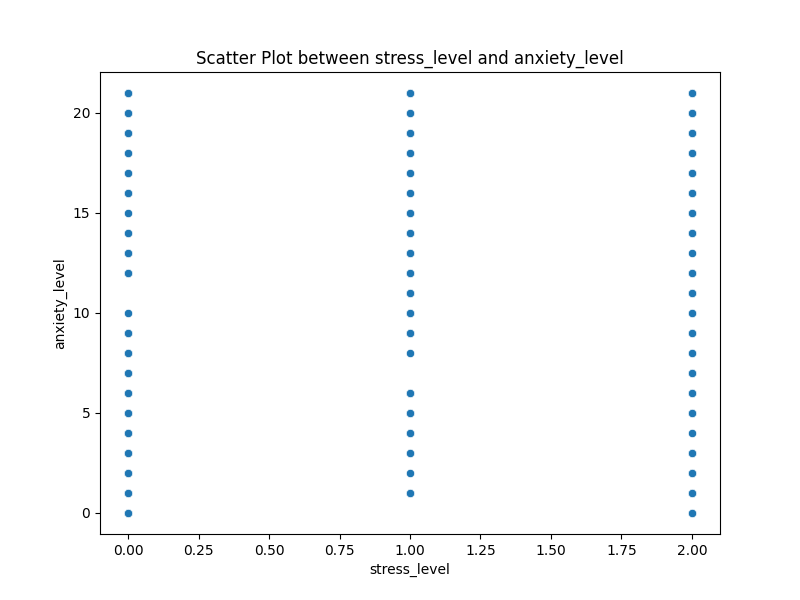
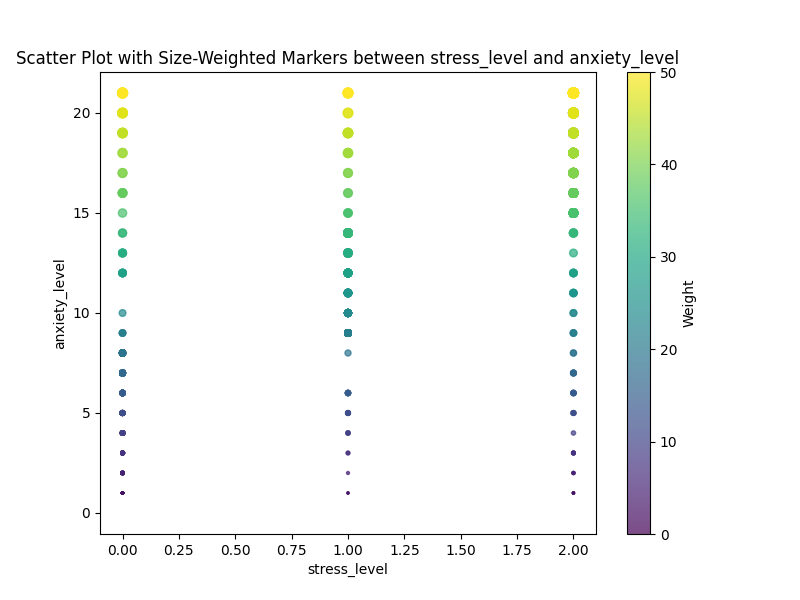
Finished README part 1

diff --git a/scripts/plotting.py b/scripts/plotting.py
@@ -158,12 +158,73 @@ def StressfactorAnalysis(df):
 
 def plot_two_variables(df, variable1, variable2):
     """
-    Function to plot two variables in a scatter plot
+    Function to plot two variables in a scatter plot, making the weight of each point more visible
     """
+    print("\n\nGraph in output folder\n\n")
     plt.figure(figsize=(8, 6))
-    sns.scatterplot(x=variable1, y=variable2, data=df)
-    plt.title(f"Scatter Plot between {variable1} and {variable2}")
+
+    # Create a list of marker sizes based on the values of variable2
+    marker_sizes = [50 * (i / np.max(df[variable2])) for i in df[variable2]]
+
+    # Create a colormap based on the weights
+    cmap = plt.cm.viridis  # You can choose a different colormap
+
+    # Normalize the weights to be in the range [0, 1]
+    norm = plt.Normalize(vmin=min(marker_sizes), vmax=max(marker_sizes))
+
+    # Create the scatter plot with size-weighted markers and varied color intensity
+    sc = plt.scatter(
+        x=df[variable1],
+        y=df[variable2],
+        s=marker_sizes,
+        c=marker_sizes,
+        cmap=cmap,
+        alpha=0.7,
+        norm=norm,
+    )
+
+    # Add a colorbar to the plot
+    cbar = plt.colorbar(sc, orientation="vertical")
+    cbar.set_label("Weight")
+
+    plt.title(f"Scatter Plot with Size-Weighted Markers between {variable1} and {variable2}")
     plt.xlabel(variable1)
     plt.ylabel(variable2)
-    print("\n\nGraph in output folder\n\n")
     plt.savefig(os.path.join("outputs", f"scatter_plot_{variable1}_{variable2}.png"))
+
+
+def plot_two_variables_after_filtering(filtered_df, variable1, variable2):
+    """
+    Function to plot two variables in a scatter plot, making the weight of each point more visible
+    """
+    print("\n\nGraph in output folder\n\n")
+    plt.figure(figsize=(8, 6))
+
+    # Create a list of marker sizes based on the values of variable2
+    marker_sizes = [50 * (i / np.max(filtered_df[variable2])) for i in filtered_df[variable2]]
+
+    # Create a colormap based on the weights
+    cmap = plt.cm.viridis  # You can choose a different colormap
+
+    # Normalize the weights to be in the range [0, 1]
+    norm = plt.Normalize(vmin=min(marker_sizes), vmax=max(marker_sizes))
+
+    # Create the scatter plot with size-weighted markers and varied color intensity
+    sc = plt.scatter(
+        x=filtered_df[variable1],
+        y=filtered_df[variable2],
+        s=marker_sizes,
+        c=marker_sizes,
+        cmap=cmap,
+        alpha=0.7,
+        norm=norm,
+    )
+
+    # Add a colorbar to the plot
+    cbar = plt.colorbar(sc, orientation="vertical")
+    cbar.set_label("Weight")
+
+    plt.title(f"Scatter Plot with Size-Weighted Markers between {variable1} and {variable2}")
+    plt.xlabel(variable1)
+    plt.ylabel(variable2)
+    plt.savefig(os.path.join("outputs", f"filtered_scatter_plot_{variable1}_{variable2}.png"))

diff --git a/scripts/main_script.py b/scripts/main_script.py
@@ -8,6 +8,7 @@ import click
 if __name__ == "__main__":
     from plotting import StressfactorAnalysis
     from plotting import plot_two_variables
+    from plotting import plot_two_variables_after_filtering
     from stats import calculate_correlation_matrix
     from filtering import Filtering
     from regression import perform_regression
@@ -80,7 +81,7 @@ def main(
             filtered_df = df
 
         if plotting and variable1 and variable2:
-            plot_two_variables(filtered_df, variable1, variable2)
+            plot_two_variables_after_filtering(filtered_df, variable1, variable2)
     if plotting:
         if plot_main:
             StressfactorAnalysis(df)

diff --git a/README.md b/README.md
@@ -163,3 +163,20 @@ _Stress level and self esteem._
 _Stress level and future carrer concerns._<br>
 --<br>
 If we now filter that data and then plot it, it becomes more evident.
+
+For exapmple, filtering the anxiety level for smaller than 8 should show major imporvemens on the stress level in the plot:
+
+    python scripts/main_script.py -id dataset/StressLevelDataset.csv -f anxiety_level -small 8 -plot -var1 stress_level -var2 anxiety_level
+This print the graph in the output but more importantly, it shows the filtered csv. From that can be decucted that the stress level is more often close to zero. <br> 
+<br>Further filters and plot can be applied and the correlations further checked.
+
+--<br>
+Lastly, it is possible to conduct a regression with the model to predict future outcomes and check how much variablility can be explained with the target variable. It can be done like this:
+
+    python scripts/main_script.py -id dataset/StressLevelDataset.csv -reg
+...and should give the followin output: <br>
+Mean Squared Error: 0.14076890911661943 <br>
+R-squared: 0.7891624570247755
+
+![alt text](https://github.com/Jan2134/FinalProjectAdvancedPython/blob/testing/outputs/Regression.png?raw=true)
+In this case, an MSE of 0.1407 indicates that, on average, the squared difference between the actual and predicted stress levels is quite low. An R-squared value of 0.7891 suggests that approximately 78.91% of the variability in the stress levels can be explained by the independent variables in your dataset. This is a relatively high value, indicating that the model fits the data well. The outcome might vary slightly every time. The graph (in the outputs) suggests that the model is able to make fairly accurate predictions about stress levels. However, there is still some variation between the actual and predicted stress levels. This could be due to a number of factors, such as the complexity of the relationship between stress levels and the other variables in the model, or the presence of outliers in the data.
